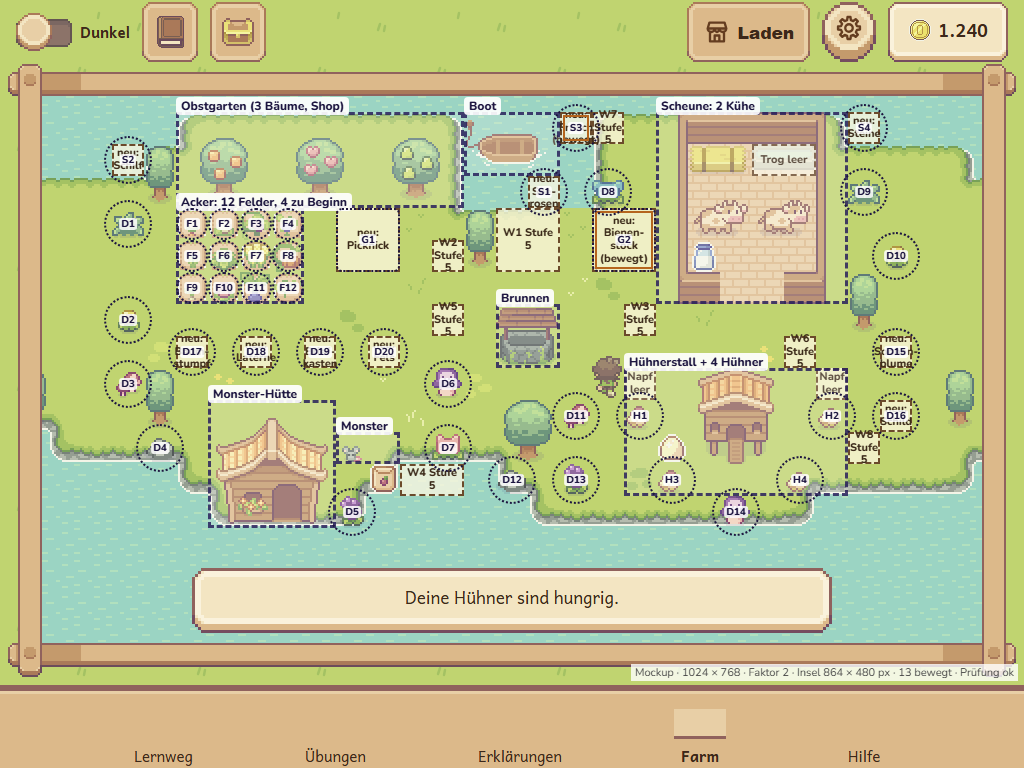
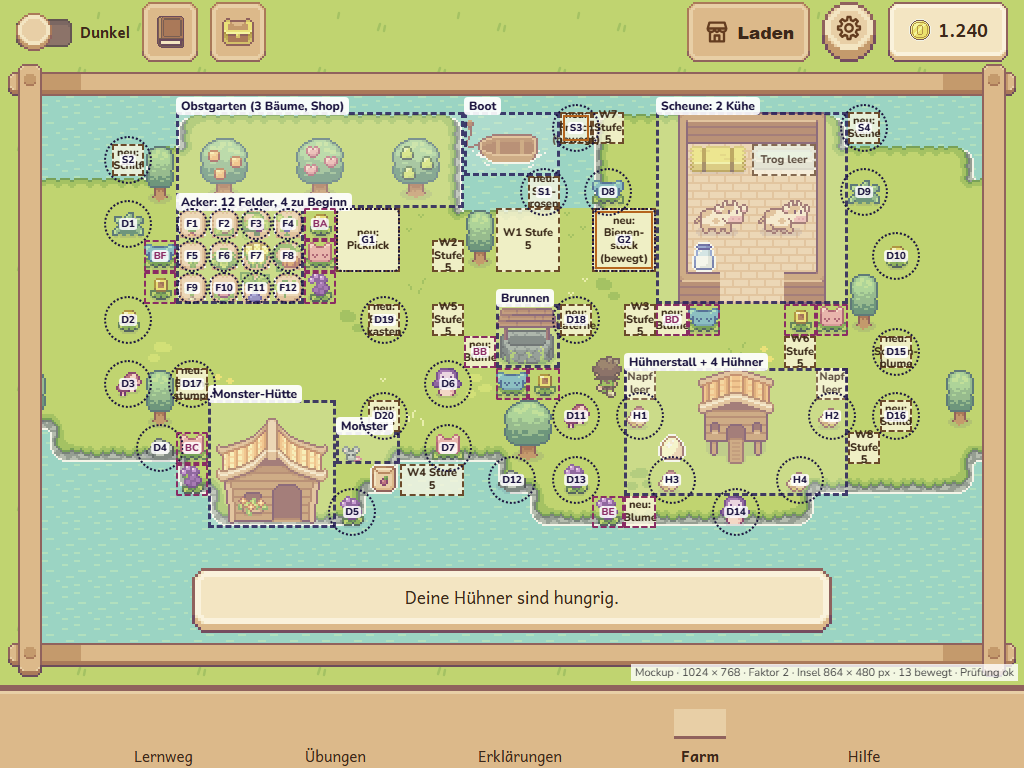
Farm-Mockups: Deko verstreut statt in Reihe, 6 Blumenbeete mit 16 Plätzen, mehr Blumen-Vorschläge

diff --git a/docs/farm/farm-mockup.js b/docs/farm/farm-mockup.js
@@ -51,7 +51,19 @@ const WACHSEND = [ // Teilaufgabe 4 legt fest, was hier wächst; hier nur Platz 
 ]
 // Deko-Plätze in drei Größen: klein 1 × 1 (D), groß 2 × 2 (G), im Wasser 1 × 1 (S)
 const DEKO = [[1, 4], [1, 7], [1, 9], [2, 11], [8, 13], [11, 9], [11, 11], [16, 3], [24, 3], [25, 5],
-  [15, 10], [13, 12], [15, 12], [20, 13], [25, 8], [25, 10], [3, 8], [5, 8], [7, 8], [9, 8]].map(([x, y]) => ({ x, y }))
+  [15, 10], [13, 12], [15, 12], [20, 13], [25, 8], [25, 10],
+  // Jazz 2026-11-17: nicht in einer Reihe, sondern wie zufällig: Baumstumpf beim Baum, Laterne am Brunnen, Briefkasten am Hofweg, Fels am Ufer
+  [3, 9], [15, 7], [9, 7], [9, 10]].map(([x, y]) => ({ x, y }))
+// Jazz 2026-11-17: mehr Blumen. Blumenbeete aus 2 bis 4 Kacheln; die Blumen eines Beets stehen dicht (wie die Felder),
+// darum gilt für sie die Abstandsregel nicht. Antippen öffnet unter „Farm einrichten“ die Auswahl für dieses Beet.
+const BEETE = [
+  { n: 'A am Acker', k: [[7, 4], [7, 5], [7, 6]] },
+  { n: 'B am Brunnen', k: [[12, 8], [13, 9], [14, 9]] },
+  { n: 'C an der Hütte', k: [[3, 11], [3, 12]] },
+  { n: 'D an der Scheune', k: [[18, 7], [19, 7], [22, 7], [23, 7]] },
+  { n: 'E am Ufer', k: [[16, 13], [17, 13]] },
+  { n: 'F am Obstgarten', k: [[2, 5], [2, 6]] },
+]
 const DEKO_GROSS = [{ x: 8, y: 4 }, { x: 16, y: 4 }]
 // Wasser-Plätze nur oben (Jazz: unten lag S2 im Meldungsfeld)
 const DEKO_WASSER = [[14, 3], [1, 2], [15, 1], [24, 1]].map(([x, y]) => ({ x, y }))
@@ -59,7 +71,7 @@ const BAEUME_FEST = [{ g: 'baum', x: 13, y: 10, b: 2, h: 2 }, { g: 'baum_klein',
   { g: 'baum_klein', x: 12, y: 4, b: 1, h: 2 }, { g: 'baum_klein', x: 2, y: 9, b: 1, h: 2 },
   // auf den Landstreifen (nur Landschaft)
   { g: 'baum', x: -3, y: 6, b: 2, h: 2 }, { g: 'baum_klein', x: -2, y: 9, b: 1, h: 2 }, { g: 'baum', x: 28, y: 5, b: 2, h: 2 }, { g: 'baum_klein', x: 27, y: 9, b: 1, h: 2 }]
-const GRAS_DEKO = [[10, 6], [8, 7], [4, 9], [10, 4], [12, 9], [15, 6], [17, 12], [21, 8], [15, 4], [2, 8], [10, 10], [9, 9], [19, 7], [16, 6], [-2, 4], [29, 8]]
+const GRAS_DEKO = [[10, 6], [8, 7], [4, 9], [10, 4], [12, 9], [15, 6], [17, 12], [21, 8], [15, 4], [2, 8], [10, 10], [9, 9], [20, 8], [16, 6], [-2, 4], [29, 8]]
 
 // ---------- Selbstprüfung: alles auf Gras, nichts überdeckt sich, Tippflächen 48 px überlappen nicht ----------
 const belegt = new Map()
@@ -84,6 +96,7 @@ lege('Figur', FIGUR.x, FIGUR.y, 1, 2)
 WACHSEND.forEach((w) => lege(w.n, w.x, w.y, w.b, w.h, w.wasser))
 DEKO.forEach((d, i) => lege('Deko ' + (i + 1), d.x, d.y))
 DEKO_GROSS.forEach((d, i) => lege('Deko groß ' + (i + 1), d.x, d.y, 2, 2))
+BEETE.forEach((b) => b.k.forEach(([x, y]) => lege('Beet ' + b.n, x, y)))
 DEKO_WASSER.forEach((d, i) => { lege('Deko Wasser ' + (i + 1), d.x, d.y, 1, 1, true); if (gras(d.x, d.y)) fehler.push(`Wasser-Deko ${i + 1} liegt auf Gras`) })
 BAEUME_FEST.forEach((t) => lege(t.g, t.x, t.y, t.b, t.h))
 // Monster: Laufweg auf Gras, daneben (links/rechts) Gras oder Hütte, darunter Gras
@@ -197,6 +210,7 @@ async function zeichnen() {
     DEKO.forEach((o, i) => kreis('D' + (i + 1), o))
     DEKO_WASSER.forEach((o, i) => kreis('S' + (i + 1), o))
     DEKO_GROSS.forEach((o, i) => { const g = document.createElement('div'); g.className = 'platz platz--gross'; g.innerHTML = `<span>G${i + 1}</span>`; setze(g, o.x, o.y, 2, 2) })
+    BEETE.forEach((b) => b.k.forEach(([x, y], i) => { const g = document.createElement('div'); g.className = 'platz platz--beet'; g.innerHTML = i ? '' : `<span>B${b.n[0]}</span>`; setze(g, x, y, 1, 1) }))
   }
   const info = document.getElementById('info')
   const bewegt = buehne.querySelectorAll('.bewegt').length
@@ -241,6 +255,10 @@ function volleFarm(p, setze, platzhalter) {
   // Deko: 14 kleine Plätze mit vorhandenen Bildern, 6 mit neuen aus den Paketen (Platzhalter, Liste in layout-leer.md Abschnitt 8)
   const vorhanden = ['deko_busch', 'deko_blume_gelb', 'deko_pilz', 'deko_stein', 'deko_blume_lila', 'deko_pilzhaus', 'deko_katze_rosa', 'deko_katze_blau']
   const neu = ['Sonnen-blume', 'Schild', 'Baum-stumpf', 'Laterne', 'Brief-kasten', 'Fels']
+  // Blumenbeete: heutige Blumen-Bilder gemischt, dazu neue Blumen aus den Paketen (Platzhalter „Blume“)
+  const blumen = ['deko_blume_gelb', 'deko_katze_rosa', 'deko_blume_lila', null, 'deko_katze_blau']
+  let z = 0
+  BEETE.forEach((b) => b.k.forEach(([x, y]) => { const g = blumen[z++ % blumen.length]; g ? ding(sprite(g, 16, 16, 16, 16, 0, m), x, y, 1, 1) : platzhalter('neu: Blume', x, y, 1, 1) }))
   DEKO.forEach((o, i) => (i < 14 ? ding(sprite(vorhanden[i % 8], 16, 16, 16, 16, 0, m), o.x, o.y, 1, 1) : platzhalter('neu: ' + neu[i - 14], o.x, o.y, 1, 1)))
   platzhalter('neu: Picknick', DEKO_GROSS[0].x, DEKO_GROSS[0].y, 2, 2)
   platzhalter('neu: Bienen-stock (bewegt)', DEKO_GROSS[1].x, DEKO_GROSS[1].y, 2, 2, true)

diff --git a/docs/farm/farm-mockup.css b/docs/farm/farm-mockup.css
@@ -62,3 +62,7 @@
   /* Rahmen des Spiels (body.garten-seite) ohne seinen Innenabstand: das Mockup legt Kopfzeile, Fenster und Menü selbst fest */
   body.garten-seite { padding: 0; min-height: 0; }
   .kopf.muenzen-stand { flex-wrap: nowrap; margin: 0; }
+
+  /* Blumenbeet: Kacheln eines Beets, eckig und dicht */
+  .platz--beet { border-radius: 2px; border-style: dashed; border-color: #8a2c64; }
+  .platz--beet span { color: #8a2c64; }

diff --git a/docs/farm/layout-leer.md b/docs/farm/layout-leer.md
@@ -34,7 +34,7 @@ Grundlage sind `analyse-farm.md` und die Antworten von Jazz vom 2026-11-17 (sieh
 5. **Die Meldung** ist ein Papier-Banner unten im Meer. Dort stehen aktuelle Hinweise zur Farm. Einstein kommt nicht auf die Farm.
 6. **Felder liegen dicht wie heute (4 × 3).**
    - Das hat sich in Tests bewährt.
-   - Der gewonnene Platz geht an die Deko: **26 Deko-Plätze statt 18**, in drei Größen.
+   - Der gewonnene Platz geht an die Deko: **26 Deko-Plätze statt 18** in drei Größen, dazu **16 Blumenplätze in 6 Beeten**.
 7. **Tippflächen:**
    - Hühner und Deko bekommen mindestens 48 × 48 px.
    - Felder bleiben bei 2-fach 32 px. Das ist eine bewusste Ausnahme (Jazz, E3).
@@ -69,9 +69,10 @@ So ist gerechnet:
 | **Monster-Hütte** | links unten (x 4 bis 7, y 10 bis 13) | Hütte und Laufweg des Monsters (x 8 bis 9, y 11) | links unten | **Das Monster läuft nie ins Wasser** (Jazz). Links und rechts vom Laufweg liegen Gras oder die Hütte, darunter Gras. Das Mockup prüft das. |
 | **Brunnen** | Mitte (x 13 bis 14, y 7 bis 8) | 1 | Mitte | |
 | **Boot** | Bucht oben Mitte (x 12 bis 14, y 1 bis 2) | 1 (im Wasser) | Bucht oben | |
-| **Deko klein** (1 × 1) | am Rand, unter dem Acker, im Hof | **20 Plätze** D1 bis D20 | 18 | Blumen, Steine, Pilze, Schilder und Ähnliches |
+| **Deko klein** (1 × 1) | verstreut: am Rand, beim Baum, am Brunnen, am Hofweg, am Ufer | **20 Plätze** D1 bis D20 | 18 | Steine, Pilze, Schilder, Baumstumpf, Laterne, Briefkasten und Ähnliches. Bewusst nicht in Reihen (Jazz). |
 | **Deko groß** (2 × 2) | neben dem Acker, vor der Scheune | **2 Plätze** G1, G2 | – | Picknick, Bank mit Tisch, Bienenstock, Kirschblütenbusch |
 | **Deko im Wasser** (1 × 1) | nur oben: Bucht und Ufer | **4 Plätze** S1 bis S4 | – | Seerosen, Schilf, Steine im Wasser, Frosch |
+| **Blumenbeete** (Jazz: mehr Blumen) | am Acker, am Brunnen, an der Hütte, an der Scheunentür, am Ufer, am Obstgarten | **6 Beete mit 16 Blumenplätzen** (je 2 bis 4 Kacheln) | – | Die Blumen eines Beets stehen dicht wie die Felder. Antippen öffnet unter „Farm einrichten“ die Auswahl für das Beet. Nur Blumen passen hinein. |
 | **Wachsende Deko** | gut sichtbar verteilt | **8 Plätze** W1 bis W8 | – | Was dort wächst, legt Teilaufgabe 4 fest. Sie sind nicht antippbar. |
 | **Figur** | Start im Hof (x 16, y 8) | – | Mitte | |
 | **Liegendes** (Ernte, Ei, Milch, Monster-Geschenk) | Ernte auf dem Feld selbst; Ei/Milch und Geschenk an einem festen Platz neben Tier bzw. Hütte | – | „daneben“ | Geschenke **hüpfen weiter** (Jazz, E4). |
@@ -145,6 +146,7 @@ Alle Bilder unten sind schon gekauft. Sie liegen in `assets/entpackt/` und sind 
 
 | Gruppe | Platz | Vorschläge | Quelle (Bilderbogen) |
 |---|---|---|---|
+| **Blumen für die Beete** (Jazz: mehr Blumen) | Beet | Blumenbüschel in Gelb, Rosa, Blau, Lila und Weiß; Sonnenblume; Tulpe und Rose (gibt es schon als Pflanzen); Kirschblüten-Büschel; Kleeblüten; die heutigen Blumen gelb und lila sowie die Katzenblumen | Premium `Objects/Mushrooms, Flowers, Stones.png` (mehrere Blumenbüschel in verschiedenen Farben), Basic `Basic_Grass_Biom_things.png`, Sorry Pack `Cherry Blossom Biom.png`, heutige `pflanzen.png` (Tulpe, Rose in Blüte) |
 | **Blumen und Pflanzen** | klein | Sonnenblume, Blumenbüschel in mehreren Farben, rosa Pilze, Kleeblatt-Büschel, Beerenbusch, rosa Busch | Sprout Lands Premium `Objects/Mushrooms, Flowers, Stones.png`, `Trees, stumps and bushes.png`; Basic `Basic_Grass_Biom_things.png`; Sorry Pack `Cherry Blossom Biom.png` |
 | **Steine und Holz** | klein | großer Stein, bemooster Fels, Baumstumpf, Holzstamm, Pilz auf Stumpf | `Mushrooms, Flowers, Stones.png`, `Trees, stumps and bushes.png`, Sorry Pack `Birch wood Biom.png` |
 | **Schilder und Kleines** | klein | Holzschild mit Bild (24 Motive, z. B. Herz, Blume, Stern), Briefkasten, Laterne, Truhe (Holz, Silber, Gold) | Premium `Objects/signs.png`, `Tilesets/Building parts/Mailbox Animation Frames.png`; Sorry Pack `Furniture/*_Chest.png` |
@@ -152,7 +154,7 @@ Alle Bilder unten sind schon gekauft. Sie liegen in `assets/entpackt/` und sind 
 | **Am und im Wasser** | Wasser | Seerosen, Schilf, Steine im Wasser, Frosch | Premium `Objects/Water Objects.png`; Sorry Pack `Plant update 2/frog/` |
 | **Jahreszeit** (Vorschlag, nur zeitweise im Shop) | klein/groß | Weihnachtsbaum, Geschenke, geschnitzter Kürbis | Sorry Pack `Sprout winter/`, `halloween/carved_halloween_pumpkins.png` |
 
-Das ergibt **etwa 30 neue Deko-Gegenstände**, ohne ein einziges Bild neu zu zeichnen.
+Das ergibt **etwa 40 neue Deko-Gegenstände**, davon gut 10 Blumen, ohne ein einziges Bild neu zu zeichnen.
 
 **Grenzen:**
 - Bewegte Deko (Bienen, Frosch, Lagerfeuer) zählt zum Bewegungs-Budget aus Teilaufgabe 3 und steht bei „Bewegung reduzieren“ still.
@@ -175,6 +177,7 @@ Preise und Freischaltung folgen in Teilaufgabe 5, die genaue Auswahl in Teilaufg
 | E5 | Shop-Knopf auf der Farm | Der Knopf **ersetzt** den Menüpunkt Shop unten. Das Buch im Sammelalbum-Knopf wird kleiner. |
 | E6 | Monster | läuft nie ins Wasser (Laufweg vor der Hütte, ringsum Gras) |
 | E7 | Überschrift „Meine Farm“ | entfällt auf der Farm |
+| E9 | Deko-Verteilung und Blumen | Baumstumpf, Laterne, Briefkasten, Fels verstreut statt in einer Reihe; 6 Blumenbeete mit 16 Plätzen; mehr Blumen im Shop |
 | E8 | Wasser-Platz S2 lag unten im Meldungsfeld | Wasser-Plätze nur noch oben; unter der Insel liegt nichts Antippbares im Wasser (Prüfung im Mockup) |
 
 ## 10. Was später im Code zu ändern wäre (nicht jetzt)

diff --git a/docs/farm/layout-voll.md b/docs/farm/layout-voll.md
@@ -30,6 +30,7 @@ Die Karte und die Plätze stammen aus Teilaufgabe 2 (`layout-leer.md`). Hier ist
 | Hühnerstall | 4 Hühner, 2 davon hungrig (Napf leer), 1 Ei zum Einsammeln |
 | Monster | Hütte, Monster vor der Hütte, sein Geschenk (Samentüte) liegt daneben |
 | Brunnen, Boot | beide gekauft |
+| Blumenbeete (6 Beete, 16 Plätze) | alle bepflanzt, gemischt aus heutigen Blumen-Bildern und neuen Blumen (Platzhalter) |
 | Deko klein (20) | 14 mit heutigen Bildern, 6 mit neuen Bildern aus den Paketen (im Mockup als Platzhalter) |
 | Deko groß (2) | Picknick, Bienenstock (neu) |
 | Deko im Wasser (4) | Seerosen, Schilf, Frosch, Steine (neu) |
@@ -38,7 +39,7 @@ Die Karte und die Plätze stammen aus Teilaufgabe 2 (`layout-leer.md`). Hier ist
 | Meldung | „Deine Hühner sind hungrig.“ |
 | Münzen | 4-stellig (1.240): Die Anzeige reicht dafür. |
 
-Das sind gut **80 Dinge** auf der Insel. Mehr geht nicht, weil jeder Platz belegt ist.
+Das sind knapp **100 Dinge** auf der Insel. Mehr geht nicht, weil jeder Platz belegt ist.
 
 ## 2. Bewegungs-Budget
 

diff --git a/docs/umbau/STATUS.md b/docs/umbau/STATUS.md
@@ -554,4 +554,7 @@ Sechs Teilaufgaben (1 Analyse, 2 Layout leer, 3 Layout voll, 4 Dekorationen, 5 M
   **Nicht getestet:** echtes iPad (Leistung), dunkler Modus, neue Deko-Bilder (nur Platzhalter).
 - **Entscheidungen Jazz zu Teilaufgabe 3 (2026-11-17):** V1–V4 angenommen (Eier im Stall-Eingang, Milch an der Scheunentür; Bewegungs-Budget;
   enge Stellen in Teilaufgabe 4 lösen; Erinnerung an Liegendes per Meldung). Shop-Knopf breiter mit dem Wort „Laden“ (Mockups und Fotos erneuert).
+- **Nachtrag Jazz:** Baumstumpf, Laterne, Briefkasten, Fels verstreut (Baum, Brunnen, Hofweg, Ufer) statt in einer Reihe; mehr Blumen:
+  6 Blumenbeete mit 16 Plätzen (Blumen eines Beets dicht, Auswahl je Beet), Blumen-Vorschläge aus den Paketen in `layout-leer.md` Abschnitt 8.
+  Selbstprüfung in allen Größen ok.
 - **Nächster Schritt:** Teilaufgabe 4 (Dekorationskonzept).
